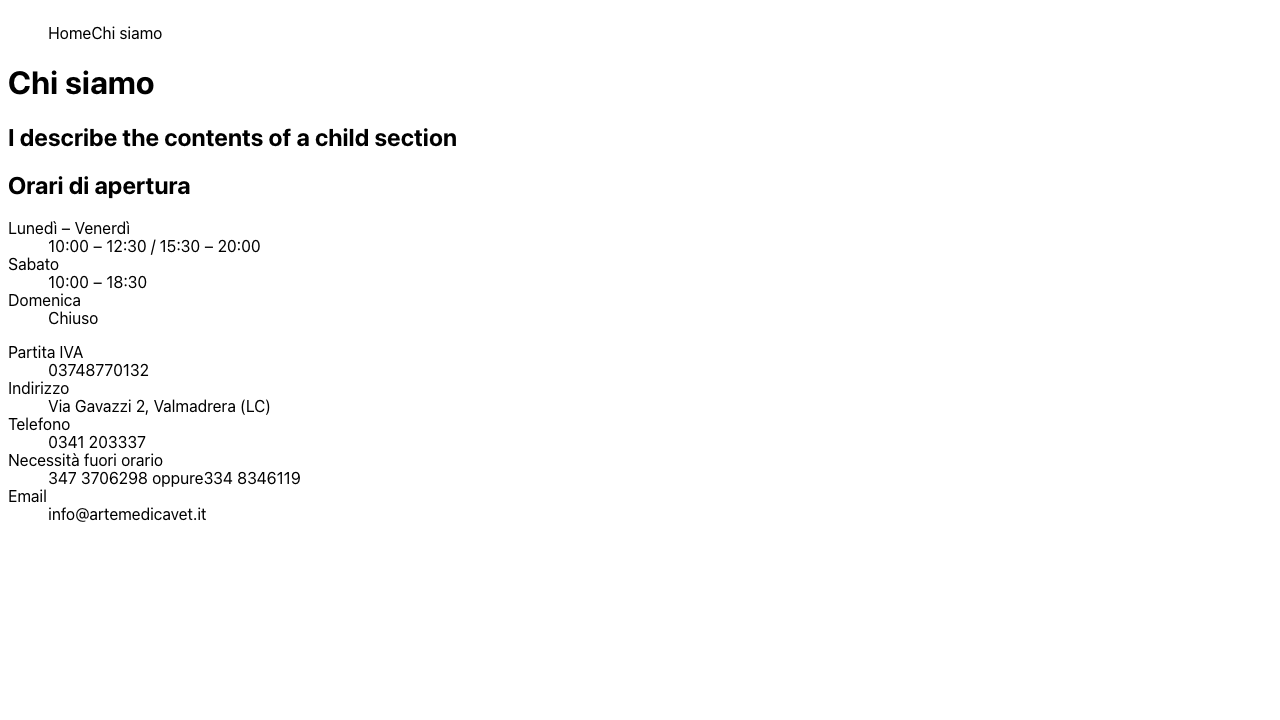
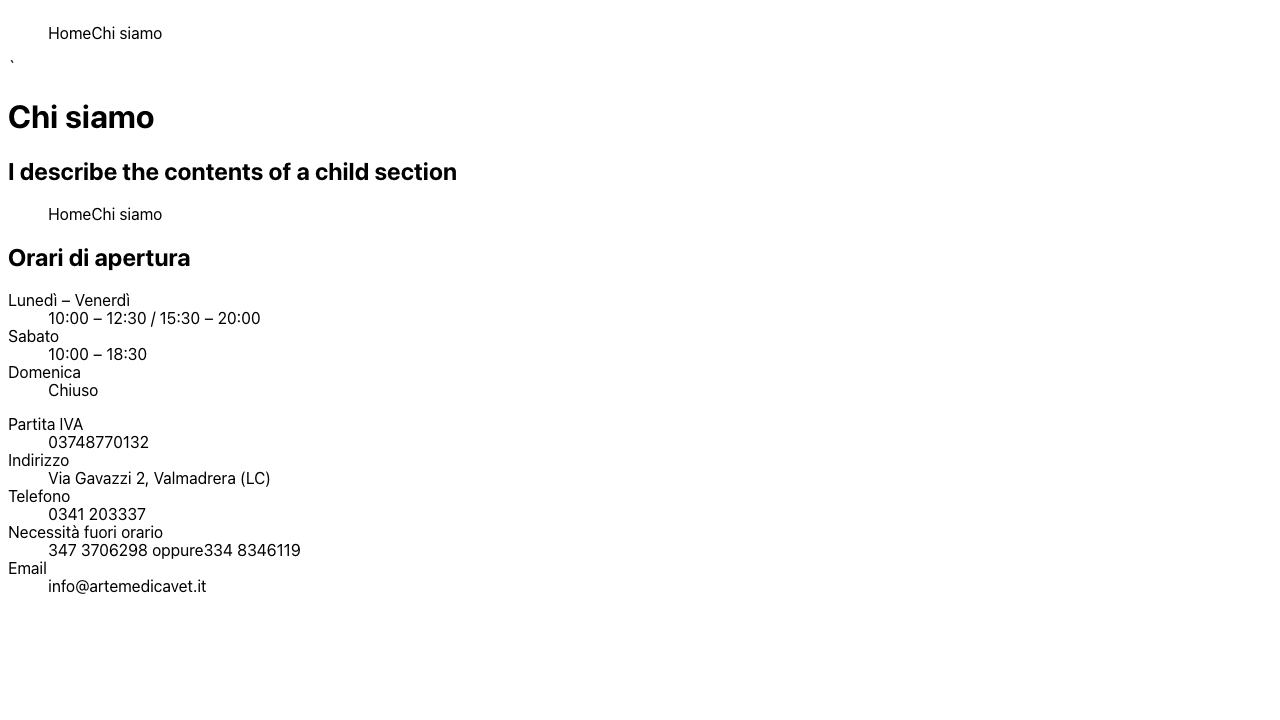
All the navigation is tested and now I can refactor the code if needed

Changed region(s): [[0.0, 0.0917, 0.375, 0.825]]

diff --git a/src/app/navigation.e2e.test.ts b/src/app/navigation.e2e.test.ts
@@ -1,11 +1,15 @@
 import { test, expect } from '@playwright/test'
+import {
+  mobileNavDialogId,
+  mobilePrimaryNavId,
+} from './components/mobilePrimaryNav/mobilePrimaryNav'
 
 // TODO: import the resolution from the page/files
 const minDesktopWidth = 1024
 test.setTimeout(2_000)
 
 test.describe('Navigation, using chi-siamo page', async () => {
-  test.describe('the aria labels are set on the server', async () => {
+  test.describe('The aria labels are set on the server', async () => {
     test.use({ javaScriptEnabled: false })
 
     test('aria-current is set to the current page', async ({ page }) => {
@@ -31,14 +35,18 @@ test.describe('Navigation, using chi-siamo page', async () => {
     }) => {
       await page.goto('/chi-siamo')
 
-      page.setViewportSize({ width: minDesktopWidth, height: 768 })
+      await test.step('set desktop viewport', async () => {
+        page.setViewportSize({ width: minDesktopWidth, height: 768 })
+      })
 
       await test.step('openNavigationMenuButton is not visible', async () => {
         const openNavigationMenuButton = page.getByLabel('Apri menú di navigazione')
         await expect.soft(openNavigationMenuButton).not.toBeVisible()
       })
 
-      page.setViewportSize({ width: minDesktopWidth - 1, height: 768 })
+      await test.step('set mobile viewport', async () => {
+        page.setViewportSize({ width: minDesktopWidth - 1, height: 768 })
+      })
 
       await test.step('openNavigationMenuButton is visible', async () => {
         const openNavigationMenuButton = page.getByLabel('Apri menú di navigazione')
@@ -47,29 +55,134 @@ test.describe('Navigation, using chi-siamo page', async () => {
     })
   })
 
+  test('Landmarks are correctly set', async ({ page }) => {
+    await page.goto('/chi-siamo')
+
+    await test.step('on desktop', async () => {
+      page.setViewportSize({ width: minDesktopWidth, height: 768 })
+    })
+
+    await test.step('the primary nav is accessible', async () => {
+      const nav = page.locator('header > nav')
+      await expect.soft(nav).toBeVisible()
+    })
+
+    await test.step('the full nav is accessible', async () => {
+      const nav = page.locator('footer > nav')
+      await expect.soft(nav).toBeVisible()
+    })
+
+    await test.step('the primary mobile nav is not accessible', async () => {
+      const nav = page.locator(`#${mobilePrimaryNavId}`)
+      await expect.soft(nav).not.toBeVisible()
+    })
+
+    await test.step('on mobile', async () => {
+      page.setViewportSize({ width: minDesktopWidth - 1, height: 768 })
+    })
+
+    await test.step('the primary nav is not accessible', async () => {
+      const nav = page.locator('header > nav')
+      await expect.soft(nav).not.toBeVisible()
+    })
+
+    await test.step('the full nav is accessible', async () => {
+      const nav = page.locator('footer > nav')
+      await expect.soft(nav).toBeVisible()
+    })
+
+    await test.step('the primary mobile nav is not accessible', async () => {
+      const nav = page.locator(`#${mobilePrimaryNavId}`)
+      await expect.soft(nav).not.toBeVisible()
+    })
+  })
+
   test('Toggling the nav menu updates the ARIA attributes correctly', async ({ page }) => {
     page.setViewportSize({ width: minDesktopWidth - 1, height: 768 })
     await page.goto('/chi-siamo')
 
     const navigationMenuToggle = page.getByLabel('Apri menú di navigazione')
-    const primaryNav = page.locator('header > nav')
-
-    await test.step('aria attributes are in the initial state', async () => {
-      const primaryNavId = await primaryNav.getAttribute('id')
-      if (!primaryNavId) throw new Error("primaryNav doesn't have an id")
-
-      await expect.soft(navigationMenuToggle).toHaveAttribute('aria-expanded', 'false')
-      await expect.soft(navigationMenuToggle).toHaveAttribute('aria-controls', primaryNavId)
-      await expect.soft(primaryNav).not.toBeVisible()
-    })
+    const primaryMobileNav = page.locator(`#${mobilePrimaryNavId}`)
 
     await test.step('click navigationMenuToggle', async () => {
+      await expect.soft(navigationMenuToggle).toHaveAttribute('aria-haspopup', 'menu')
+      await expect.soft(navigationMenuToggle).toHaveAttribute('aria-controls', mobileNavDialogId)
       await navigationMenuToggle.click()
     })
 
-    await test.step('the navigation menu is visible', async () => {
-      await expect.soft(navigationMenuToggle).toHaveAttribute('aria-expanded', 'true')
-      await expect.soft(primaryNav).toBeVisible()
+    await test.step('the navigation menu is accessible', async () => {
+      await expect.soft(primaryMobileNav).toBeVisible()
+      const closeNavigationMenu = page.getByLabel('Chiudi menú di navigazione')
+      await expect.soft(closeNavigationMenu).toBeFocused()
+    })
+
+    await test.step('the full nav is inaccessible', async () => {
+      const nav = page.locator('footer > nav')
+      nav.focus()
+      await expect.soft(nav).not.toBeFocused()
+    })
+
+    await test.step('pressing esc makes the navigation menu inaccessible', async () => {
+      await page.keyboard.press('Escape')
+      await expect.soft(primaryMobileNav).not.toBeVisible()
+    })
+  })
+
+  test('The mobile nav menu is can be toggled with the keyboard', async ({ page }) => {
+    page.setViewportSize({ width: minDesktopWidth - 1, height: 768 })
+    await page.goto('/chi-siamo')
+
+    const navigationMenuToggle = page.getByLabel('Apri menú di navigazione')
+    const primaryMobileNav = page.locator(`#${mobilePrimaryNavId}`)
+
+    await test.step('go to navigationMenuToggle', async () => {
+      await page.keyboard.press('Tab')
+      await expect(navigationMenuToggle).toBeFocused()
+    })
+
+    await test.step('by pressing space, the navigation menu becomes accessible', async () => {
+      await page.keyboard.press('Space')
+      await expect.soft(primaryMobileNav).toBeVisible()
+    })
+
+    await test.step('the focus is trapped inside the navigation menu', async () => {
+      const mobileNavDialog = page.locator(`#${mobileNavDialogId}`)
+      await expect(mobileNavDialog).toHaveAttribute('aria-modal', 'true')
+
+      const isOpen = await mobileNavDialog.evaluate((el) => {
+        if (!(el instanceof HTMLDialogElement)) throw new Error('the element is not an HTML Dialog')
+        return el.open
+      })
+      expect(isOpen, `Check the dialog's open state`).toBe(true)
+
+      const isModal = await page.evaluate((mobileNavDialogId) => {
+        const mobileNavDialog = document.querySelector(`#${mobileNavDialogId}`)
+        if (!mobileNavDialog) throw new Error(`#${mobileNavDialogId} is't a dialog`)
+        return !!mobileNavDialog.matches(':modal') // true if opened via showModal()
+      }, mobileNavDialogId)
+
+      expect(isModal).toBe(true)
+    })
+
+    await test.step('pressing esc makes the navigation menu inaccessible', async () => {
+      await page.keyboard.press('Escape')
+      await expect.soft(primaryMobileNav).not.toBeVisible()
+    })
+
+    await test.step('the focus is restored on the navigationMenuToggle', async () => {
+      await expect(navigationMenuToggle).toBeFocused()
+    })
+
+    await test.step('by pressing space, the navigation menu becomes accessible again', async () => {
+      await page.keyboard.press('Space')
+      await expect.soft(primaryMobileNav).toBeVisible()
+    })
+
+    await test.step('the navigation menu can be closed with the close button', async () => {
+      const closeNavigationMenu = page.getByLabel('Chiudi menú di navigazione')
+      await closeNavigationMenu.focus()
+      await page.keyboard.press('Space')
+      await expect.soft(primaryMobileNav).not.toBeVisible()
     })
   })
 })

diff --git a/src/app/components/mobilePrimaryNav/mobilePrimaryNav.tsx b/src/app/components/mobilePrimaryNav/mobilePrimaryNav.tsx
@@ -5,7 +5,8 @@ type CurrentRoute = LinkProps['href']
 
 type Props = { currentPage?: CurrentRoute }
 
-export const mobilePrimaryNavId = 'primaryNav'
+export const mobilePrimaryNavId = 'mobilePrimaryNav'
+export const mobileNavDialogId = 'mobileNavDialog'
 
 import './mobilePrimaryNav.css'
 
@@ -14,17 +15,22 @@ export function MobilePrimaryNav(props: Props) {
 
   return (
     <>
-      <button id="openNavigationMenuButton" aria-label="Apri menú di navigazione">
+      <button
+        id="openNavigationMenuButton"
+        aria-label="Apri menú di navigazione"
+        aria-haspopup="menu"
+        aria-controls={mobileNavDialogId}
+      >
         (icon)
       </button>
       `
-      <dialog>
+      <dialog aria-modal="true" aria-labelledby="TODO:" id={mobileNavDialogId}>
         <div id="dialog-container">
           <button id="closeButton" aria-label="Chiudi menú di navigazione">
             X
           </button>
           <nav id={mobilePrimaryNavId}>
-            <ul>
+            <menu>
               <Link
                 href="/"
                 aria-current={currentPage === '/' ? 'page' : undefined}
@@ -41,7 +47,7 @@ export function MobilePrimaryNav(props: Props) {
               >
                 Chi siamo
               </Link>
-            </ul>
+            </menu>
           </nav>
         </div>
       </dialog>

diff --git a/src/app/components/desktopPrimaryNav/DesktopPrimaryNav.tsx b/src/app/components/desktopPrimaryNav/DesktopPrimaryNav.tsx
@@ -14,7 +14,7 @@ export function DesktopPrimaryNav(props: Props) {
 
   return (
     <nav id={desktopPrimaryNavId} aria-label="Pagine principali">
-      <ul>
+      <menu>
         <Link
           href="/"
           aria-current={currentPage === '/' ? 'page' : undefined}
@@ -28,7 +28,7 @@ export function DesktopPrimaryNav(props: Props) {
         <Link href="/chi-siamo" aria-current={currentPage === '/chi-siamo' ? 'page' : undefined}>
           Chi siamo
         </Link>
-      </ul>
+      </menu>
     </nav>
   )
 }

diff --git a/src/app/components/fullNav/FullNav.tsx b/src/app/components/fullNav/FullNav.tsx
@@ -13,7 +13,7 @@ export function FullNav(props: Props) {
   return (
     <nav aria-label="Tutte le pagine">
       {/* TODO: add ALL the routes */}
-      <ul>
+      <menu>
         <Link
           href="/"
           aria-current={currentPage === '/' ? 'page' : undefined}
@@ -27,7 +27,7 @@ export function FullNav(props: Props) {
         <Link href="/chi-siamo" aria-current={currentPage === '/chi-siamo' ? 'page' : undefined}>
           Chi siamo
         </Link>
-      </ul>
+      </menu>
     </nav>
   )
 }
